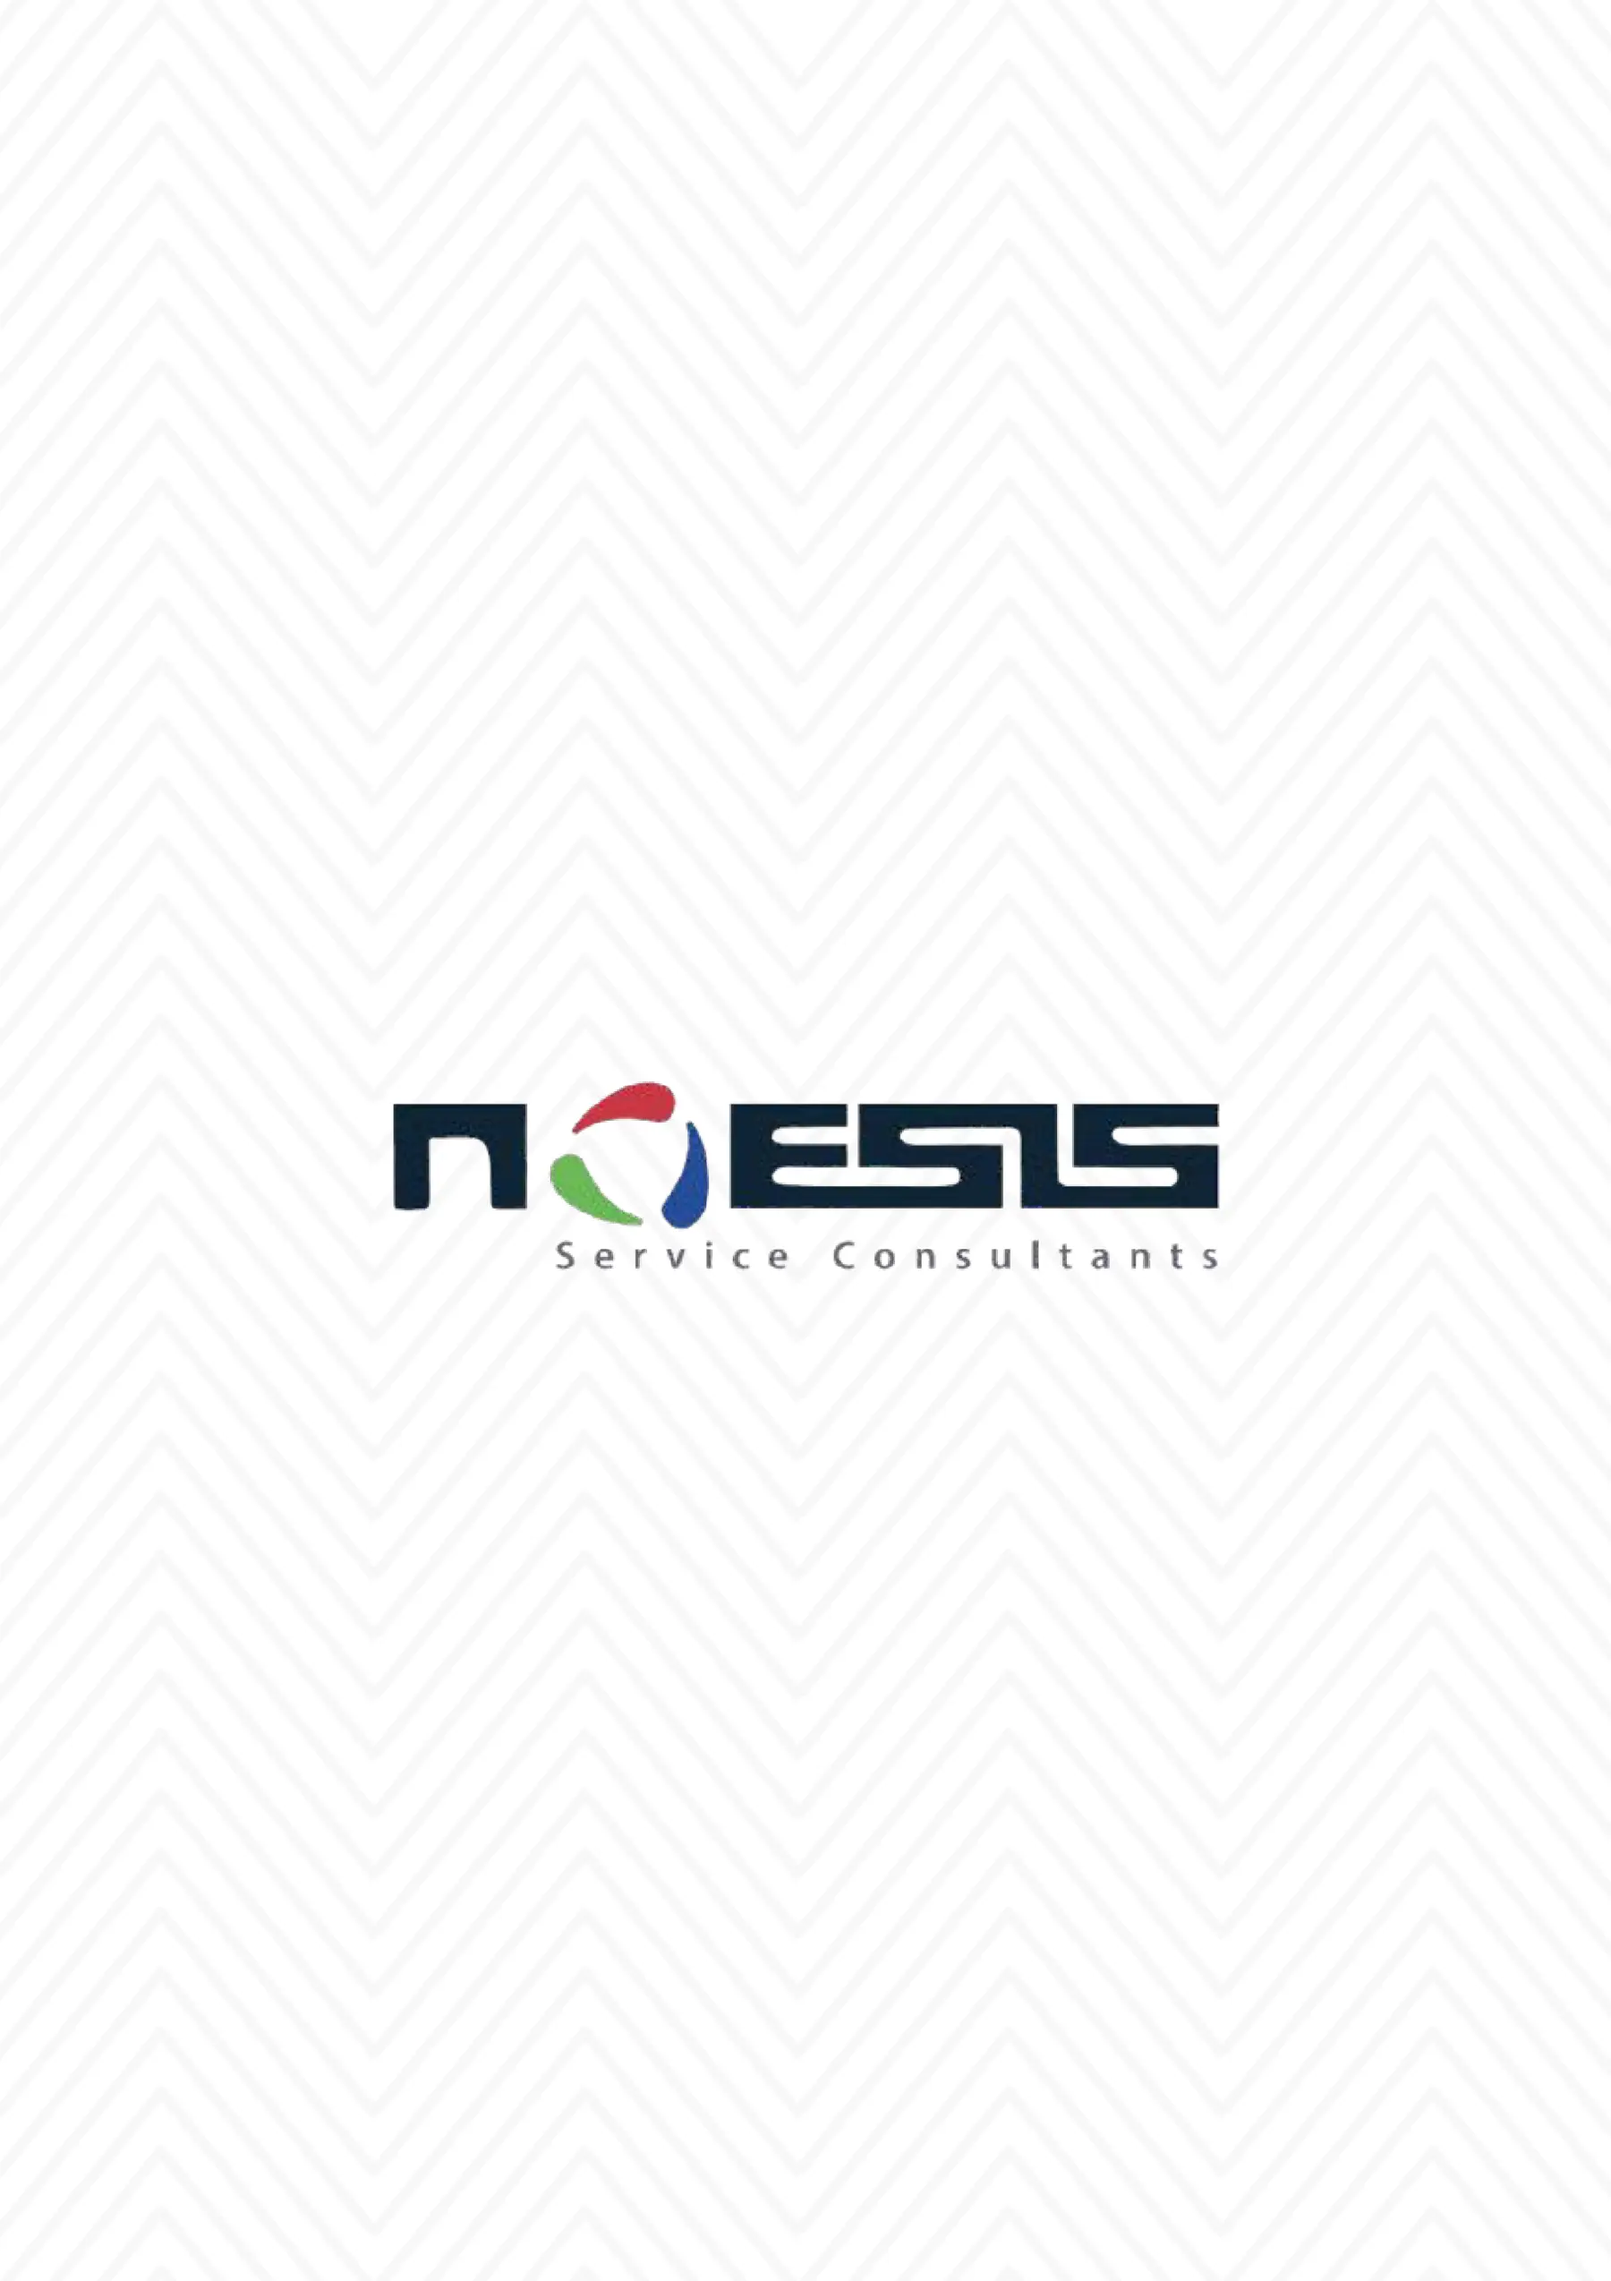
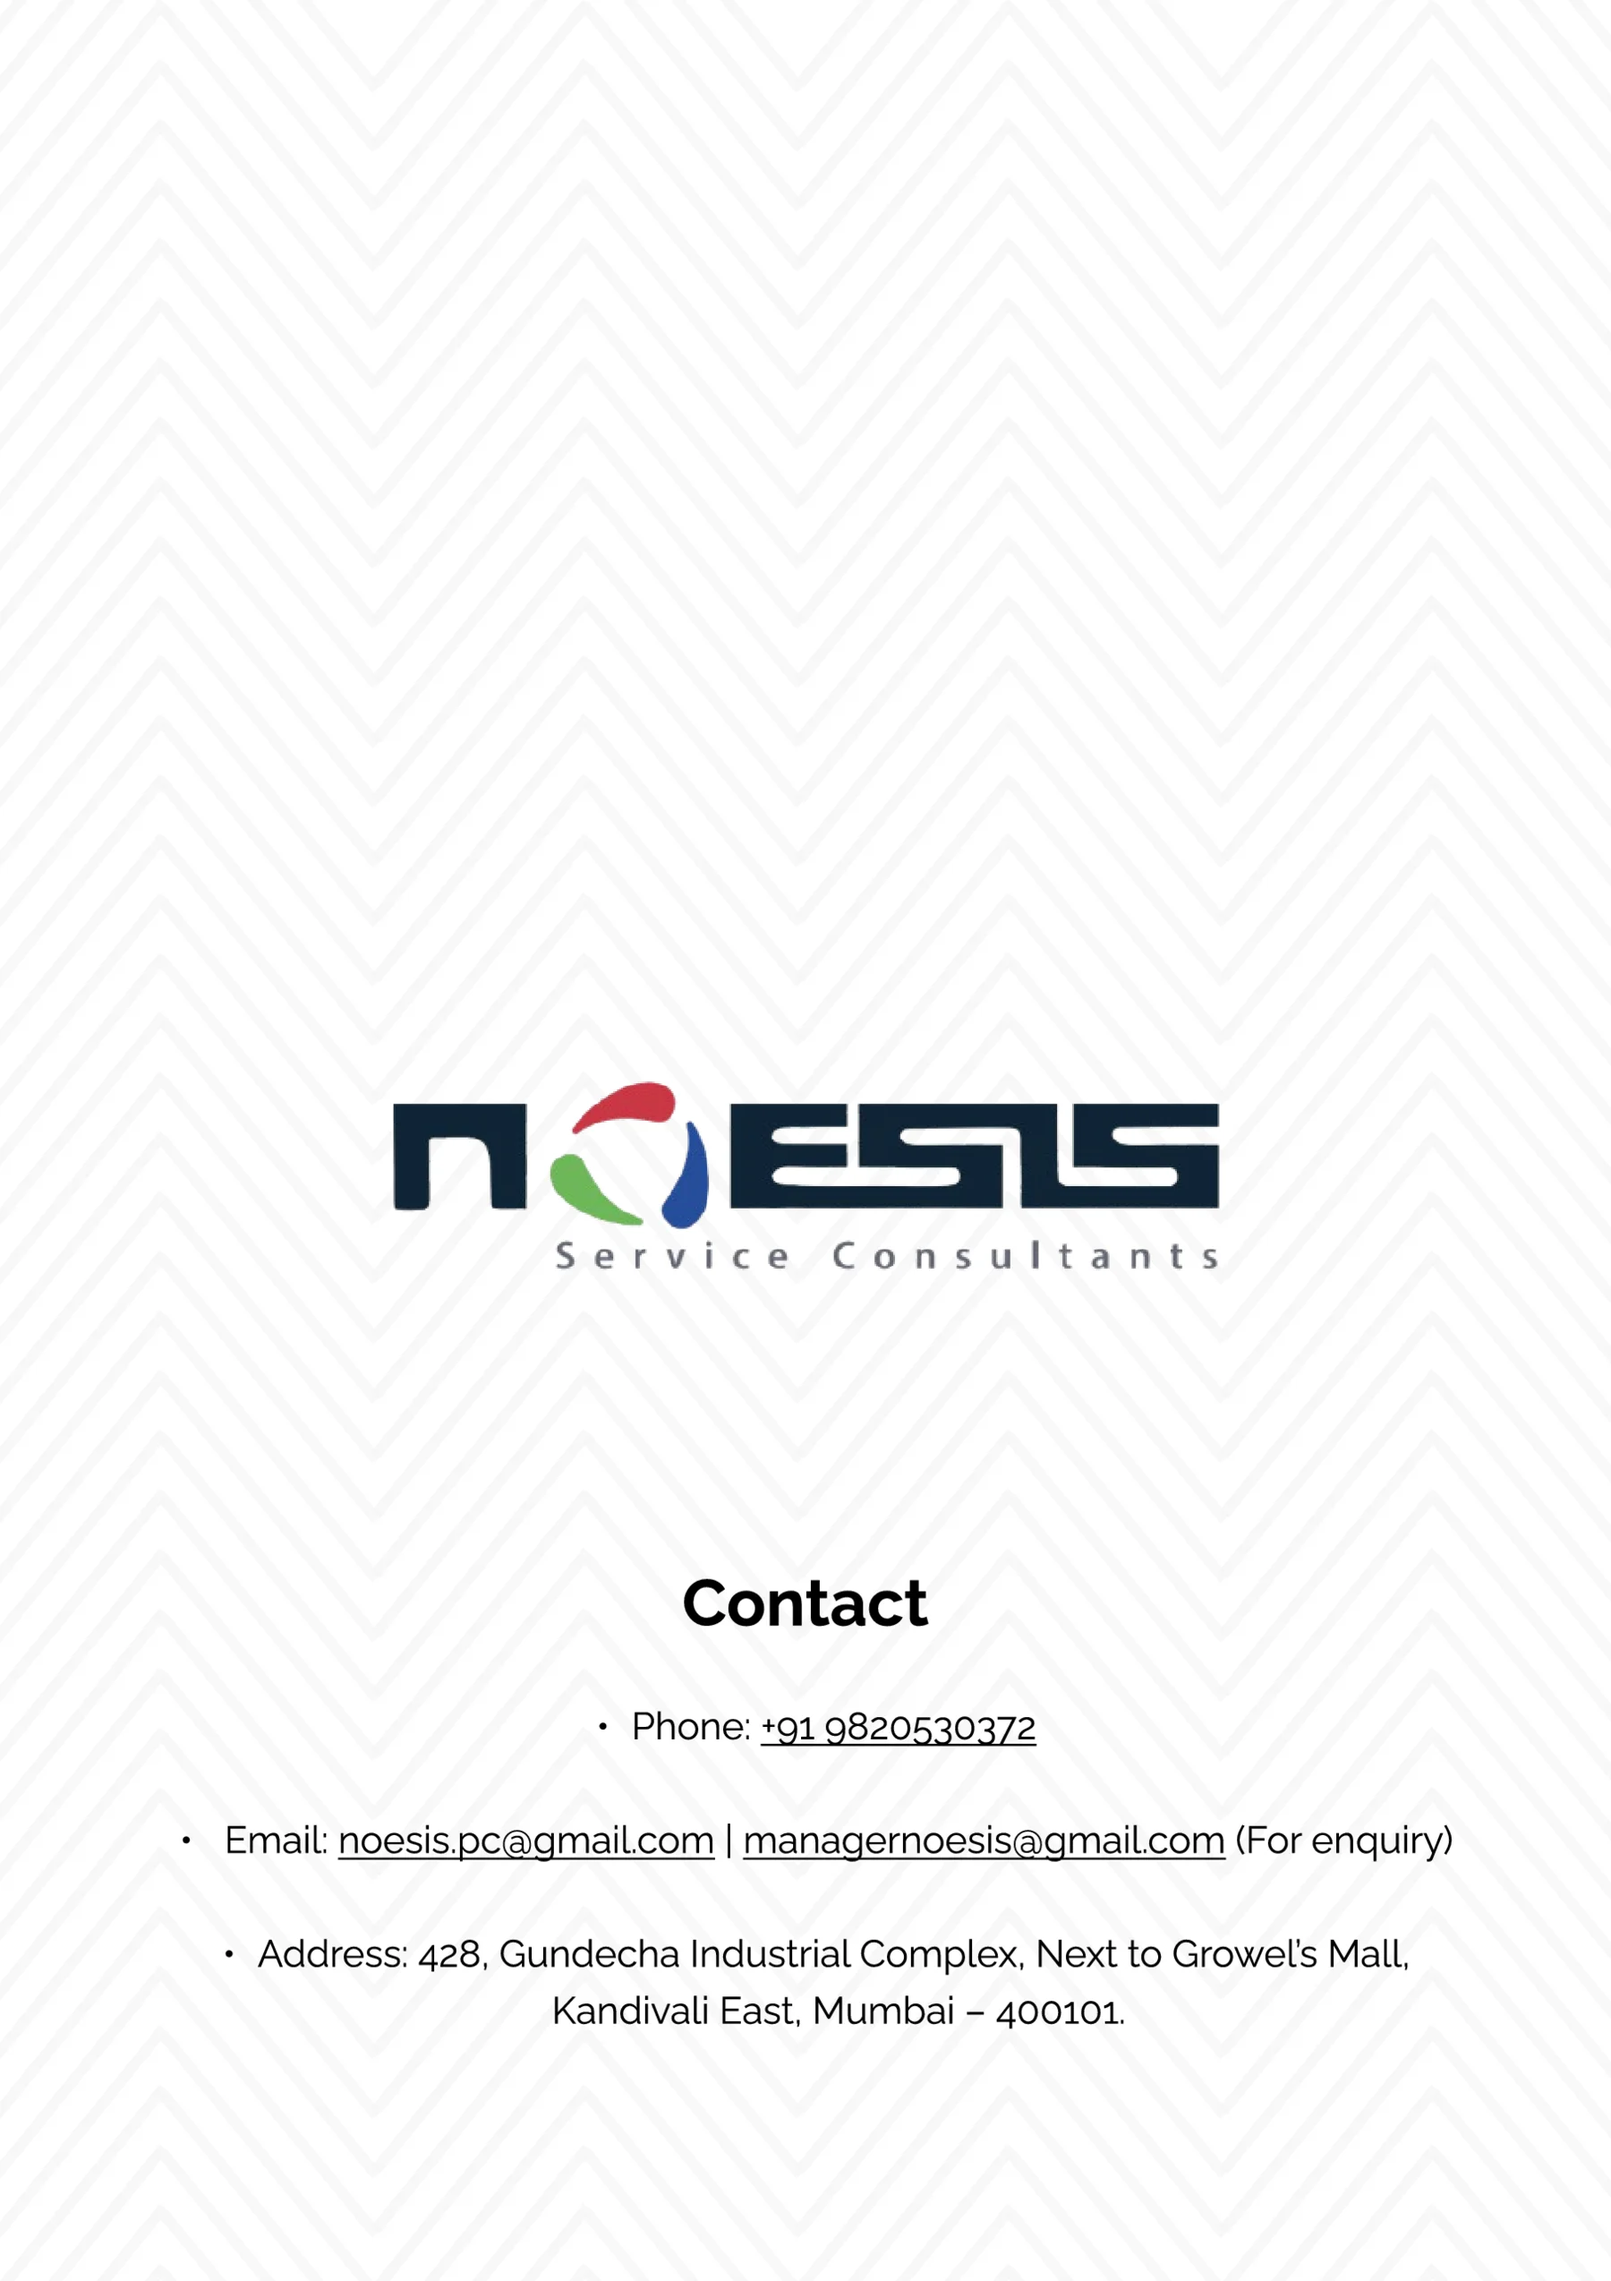
cleanup

Changed region(s): [[0.1556, 0.8061, 0.8711, 0.8991], [0.4044, 0.7441, 0.6533, 0.7751], [0.4044, 0.6821, 0.5911, 0.7131]]

diff --git a/index.html b/index.html
@@ -30,39 +30,6 @@
 
 <!-- Main app -->
 <main class="scrolly" id="app"></main>
-<footer id="contact" class="contact">
-    <div class="contact-wrap">
-        <h2>Contact</h2>
-
-        <ul class="contact-list">
-            <li>
-                <span class="contact-label">Phone:</span>
-                <a href="tel:+919820530372">+91&nbsp;9820530372</a>
-            </li>
-
-            <li>
-                <span class="contact-label">Email:</span>
-                <a href="mailto:noesis.pc@gmail.com">noesis.pc@gmail.com</a>
-                <span class="sep">|</span>
-                <a href="mailto:managernoesis@gmail.com">managernoesis@gmail.com</a>
-                <em class="muted">(For enquiry)</em>
-            </li>
-
-            <li>
-                <span class="contact-label">Website:</span>
-                <a href="https://noesisserviceconsultant.in/" target="_blank" rel="noopener">
-                    noesisserviceconsultant.in
-                </a>
-            </li>
-
-            <li class="address">
-                <span class="contact-label">Address:</span>
-                428, Gundecha Industrial Complex, Next to Growel’s Mall,<br>
-                Kandivali East, Mumbai&nbsp;–&nbsp;400101.
-            </li>
-        </ul>
-    </div>
-</footer>
 <script src="script.js"></script>
 </body>
 </html>
